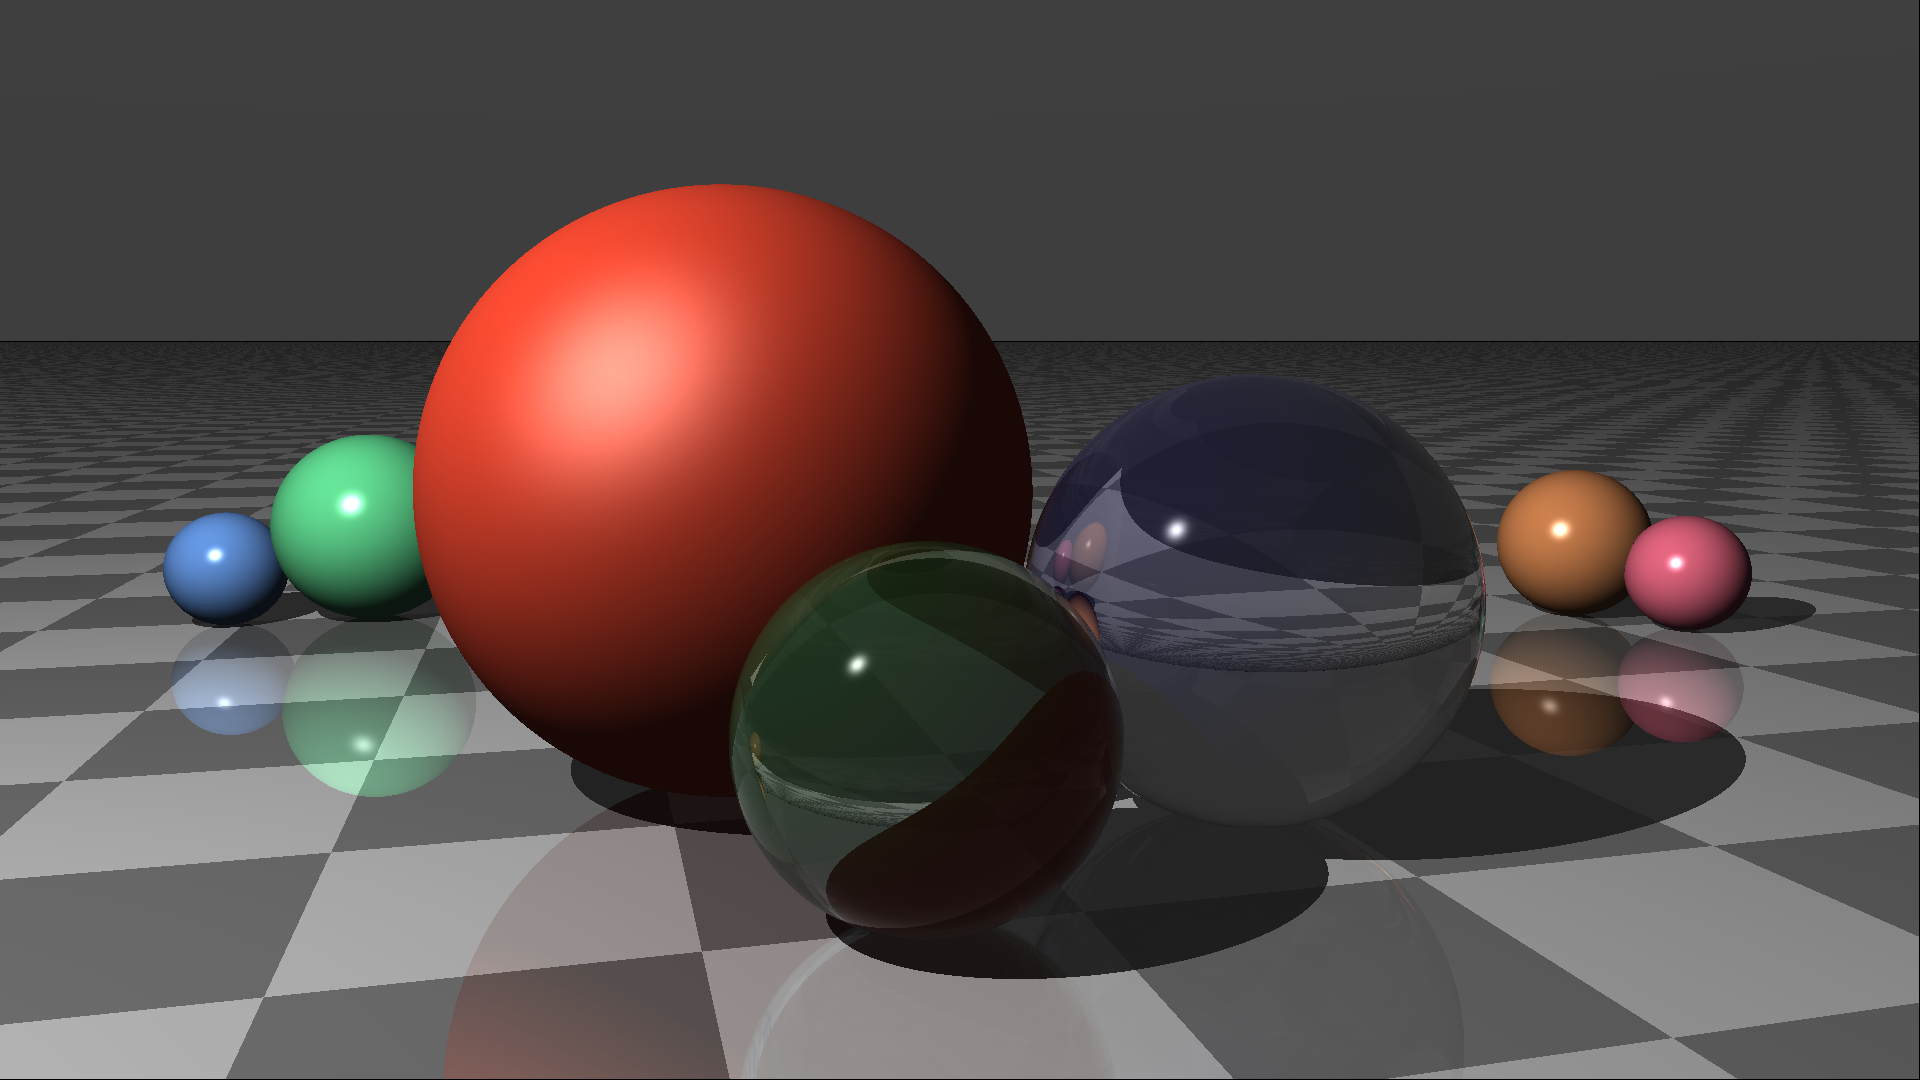
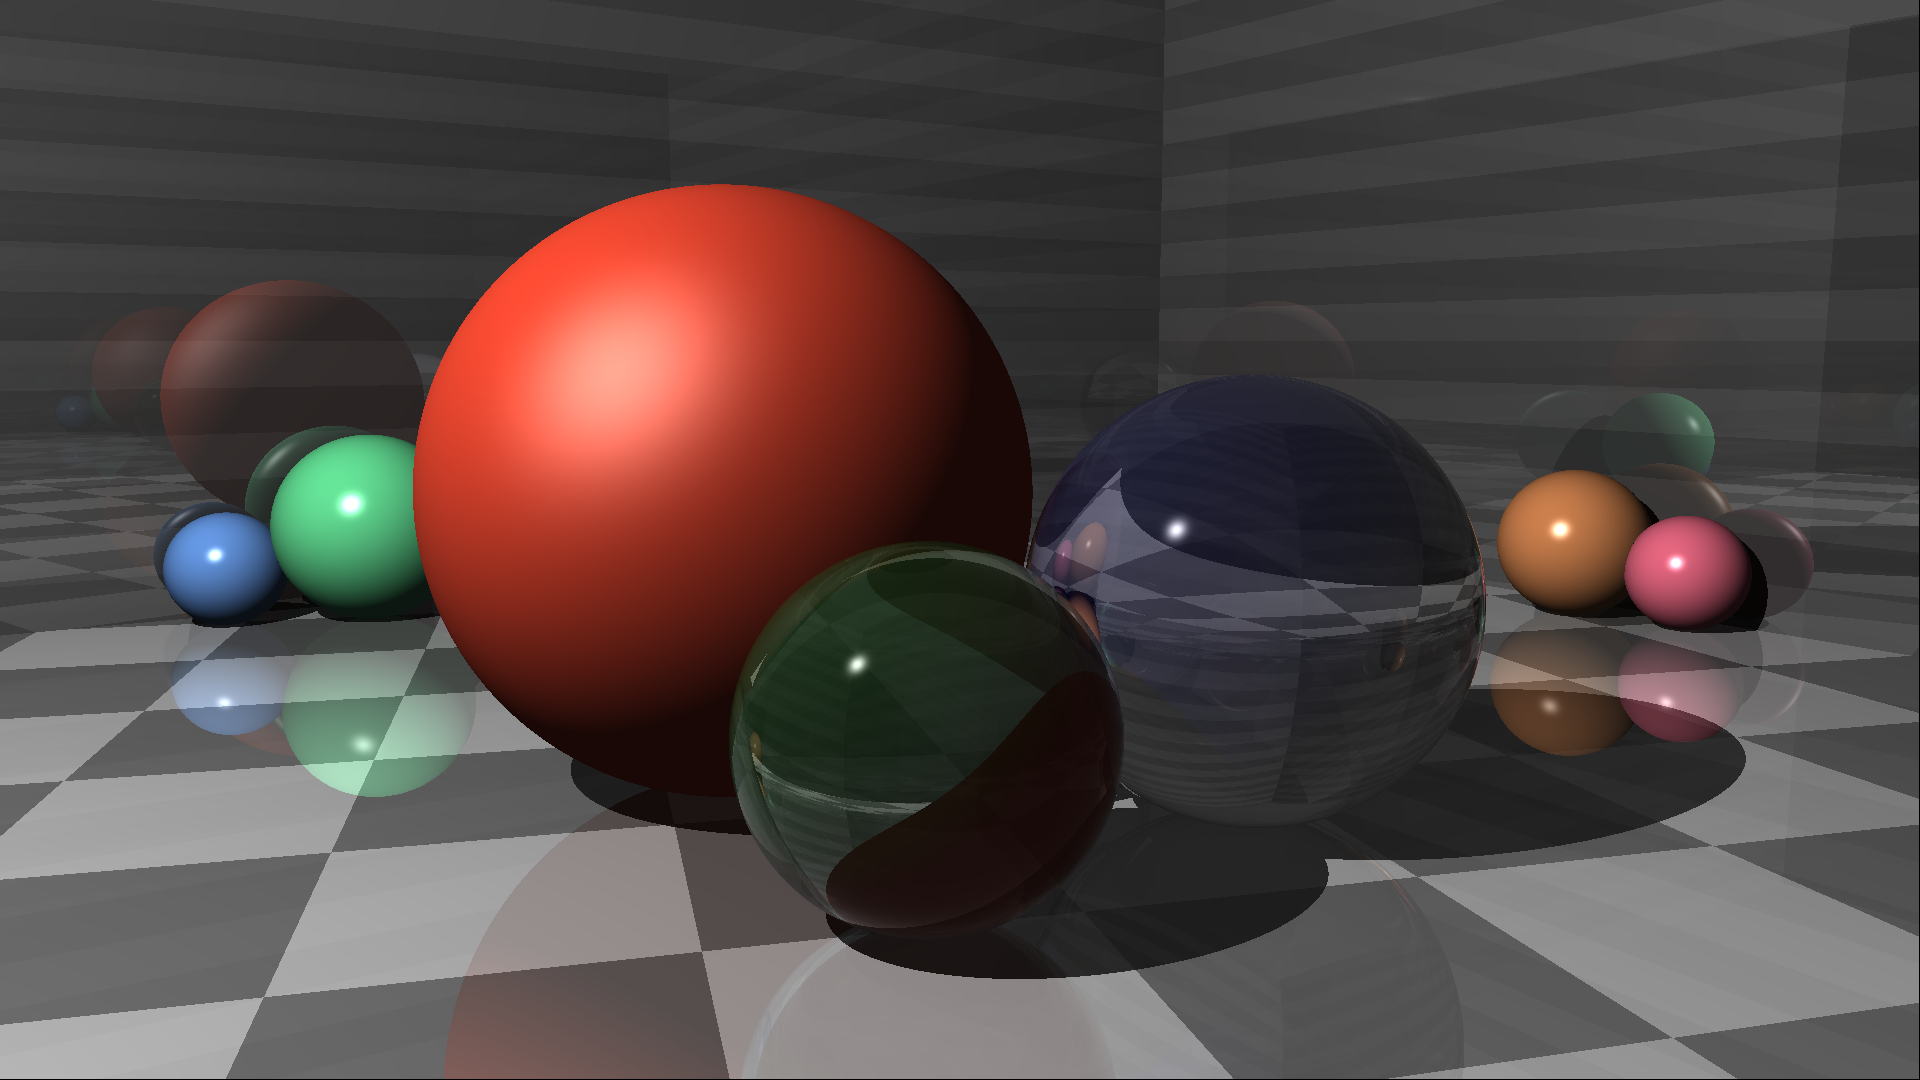
Fixed walls in render

diff --git a/main.go b/main.go
@@ -418,11 +418,11 @@ func renderReflectionRefraction() {
 	westWall := internal.NewPlane()
 	westWall.SetTransform(
 		internal.MatrixMultiply(
-			internal.Translate(-5, 0, 0),
 			internal.MatrixMultiply(
+				internal.Translate(-5, 0, 0),
 				internal.RotateZ(1.5708),
-				internal.RotateY(1.5708),
 			),
+			internal.RotateY(1.5708),
 		),
 	)
 	westWall.SetMaterial(wallMaterial)
@@ -431,10 +431,10 @@ func renderReflectionRefraction() {
 	eastWall.SetTransform(
 		internal.MatrixMultiply(
 			internal.MatrixMultiply(
-				internal.RotateY(1.5708),
+				internal.Translate(5, 0, 0),
 				internal.RotateZ(1.5708),
 			),
-			internal.Translate(5, 0, 0),
+			internal.RotateY(1.5708),
 		),
 	)
 	eastWall.SetMaterial(wallMaterial)
@@ -551,14 +551,13 @@ func renderReflectionRefraction() {
 	ball7Material.RefractiveIndex = 1.5
 	ball7.SetMaterial(ball7Material)
 
-	// Walls rendered incorrectly for some reason
 	objects := []internal.Shape{
 		floor,
 		ceiling,
-		// northWall,
-		// southWall,
-		// eastWall,
-		// westWall,
+		northWall,
+		southWall,
+		eastWall,
+		westWall,
 		ball1,
 		ball2,
 		ball3,
